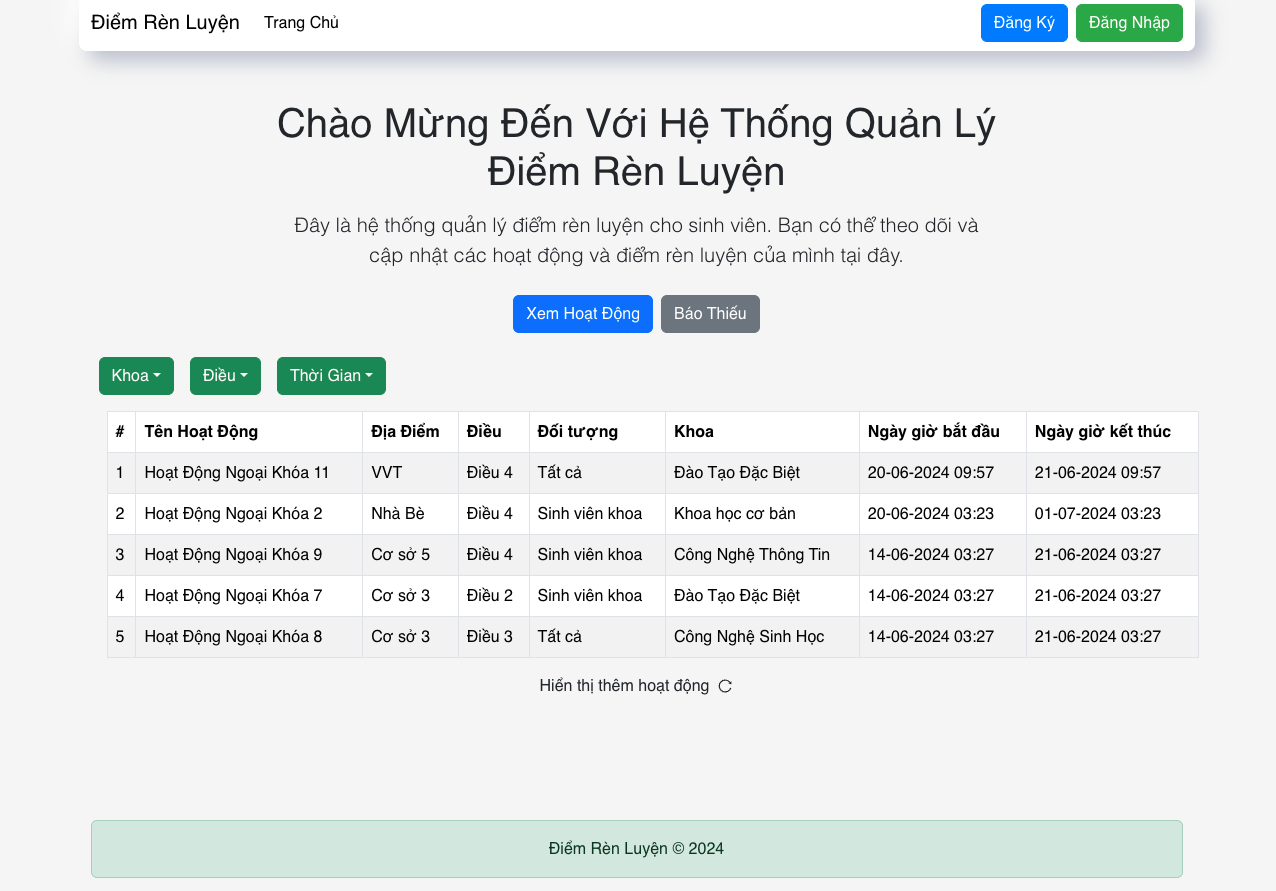
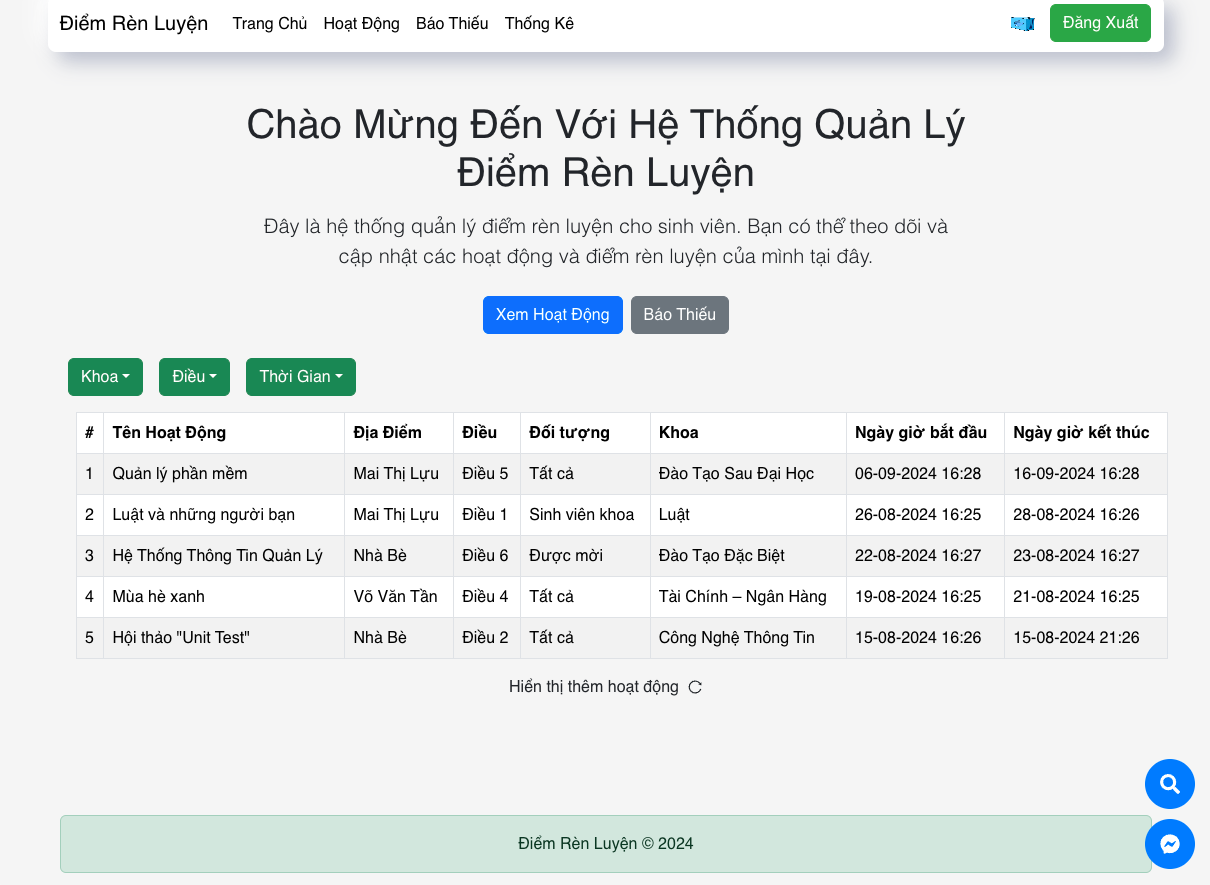
Update README.md

diff --git a/README.md b/README.md
@@ -52,7 +52,6 @@ The Student Conduct Points Management System is designed to manage and monitor t
  - [Database](#database)
  - [How To Setup](#how-to-setup)
  - [User Interface](#user-interface)
- - [Administration](#administration)
  - [Deloyment](#deloyment)
  - [Docs](#docs)
 # Features
@@ -159,7 +158,7 @@ git clone https://github.com/locnguyn/TrainingPointsManagement_SpringMVC_ReactJS
     REACT_APP_APP_ID=your_app_id_here
     REACT_APP_MEASUREMENT_ID=your_measurement_id_here
     ````
-    
+
 ## Run
 
 ````bash 
@@ -178,12 +177,29 @@ docker compose up -d
 docker compose down
 ````   
 
-# Interface
-### Admininstrator Dashboard
-### User Interface
-![user1](/images/user1.png)
-### Payments Screen
+Now you can access `localhost:5679` for user and 
+`localhost:8080/TrainingPoint/` for admin dashboard
+
+# User Interface
+### Admin Dashboard
+<img src="./images/admin1.png" width="30%"></img>
+<img src="./images/admin2.png" width="30%"></img>
+<img src="./images/admin3.png" width="30%"></img>
+<img src="./images/admin4.png" width="30%"></img>
+<img src="./images/admin5.png" width="30%"></img>
+
+### Student 
+<img src="./images/user1.png" width="30%"></img>
+<img src="./images/user2.png" width="30%"></img>
+<img src="./images/user3.png" width="30%"></img>
+<img src="./images/user4.png" width="30%"></img>
+<img src="./images/user5.png" width="30%"></img>
+
+### Payments
+<img src="./images/payment.png" width="50%"></img>
+
 ### Real-time Chat 
+<img src="./images/chat.png" width="50%"></img>
 # Deloyment
 # Docs
 * 🔗 [Spring MVC](https://spring.io/guides/gs/serving-web-content)
